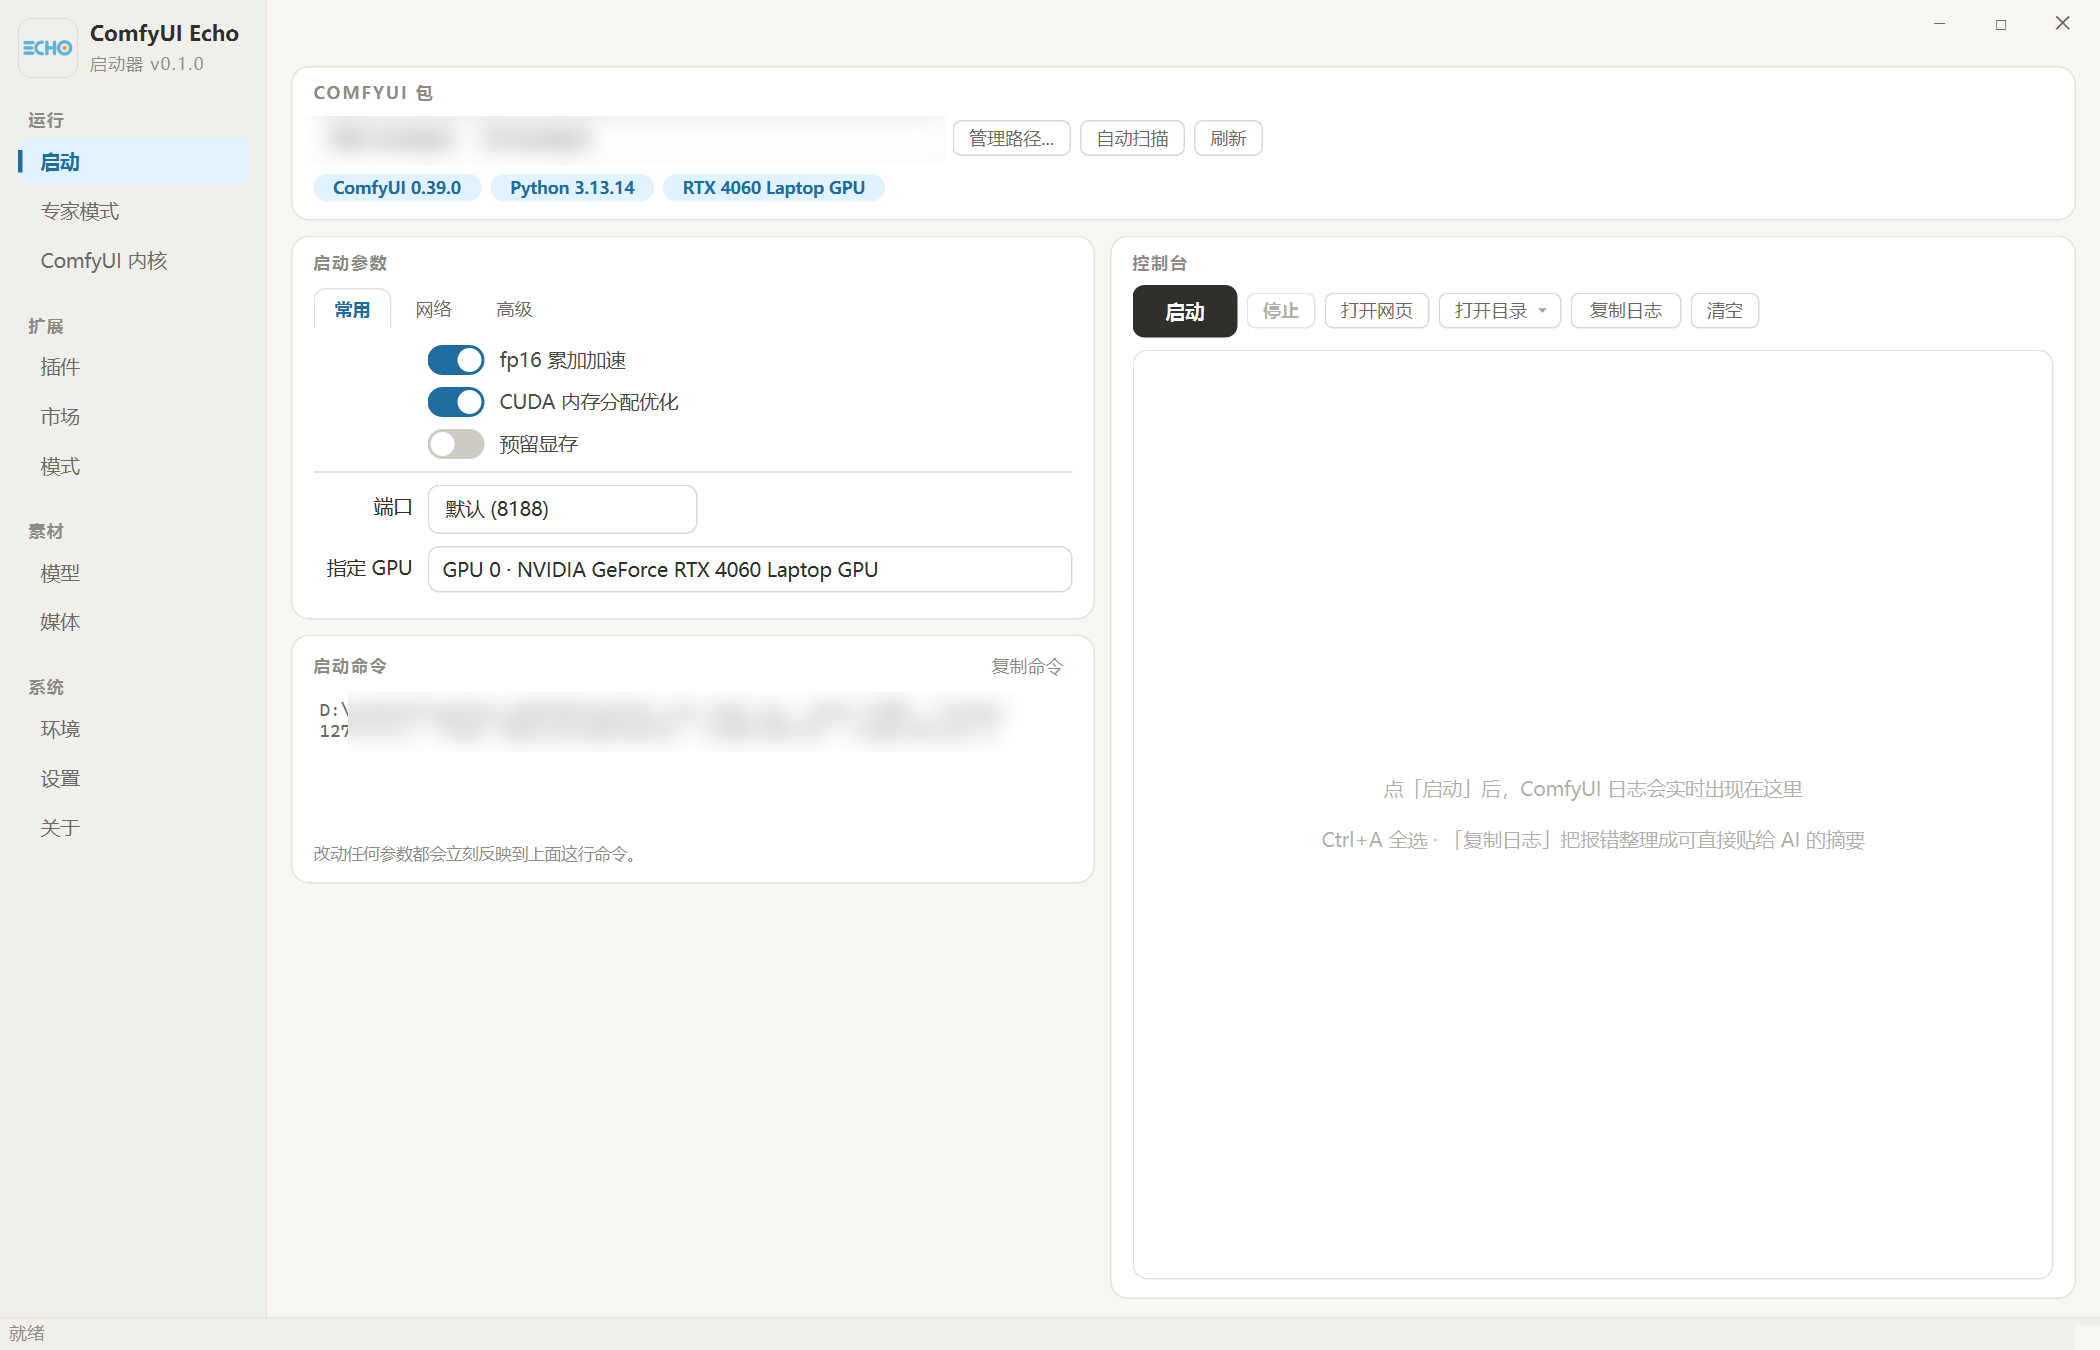
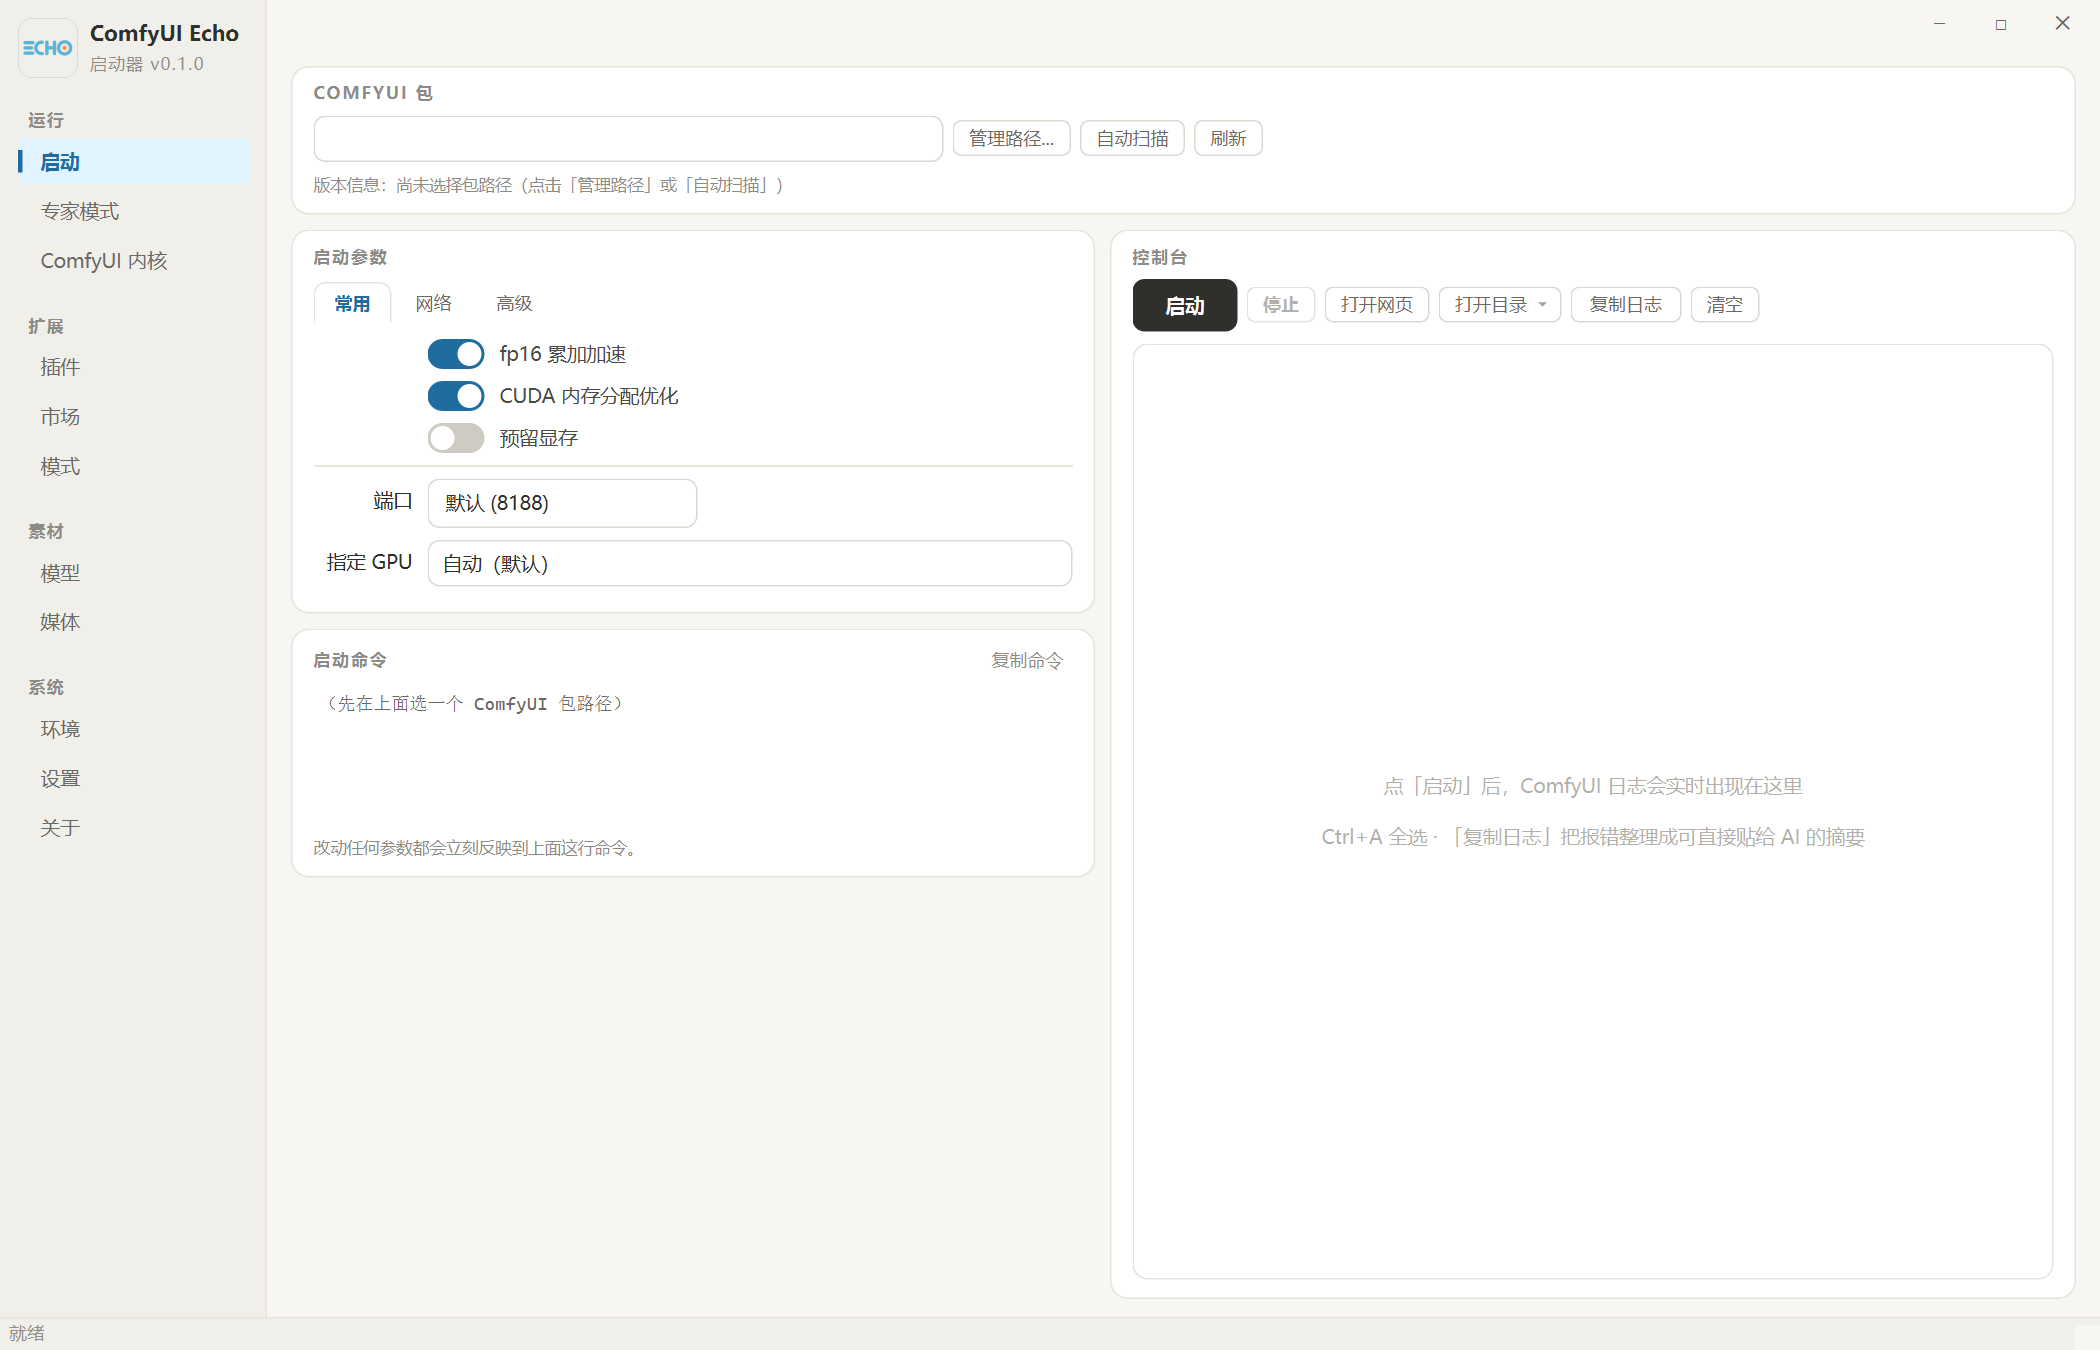
docs: 截图改为纯默认状态（不含任何本机配置）；README 图片与文案同步

diff --git a/README.md b/README.md
@@ -37,7 +37,7 @@
 
 <div align="center">
   <img src="docs/screenshots/home.png" width="900" alt="启动页">
-  <br><em>启动 —— 多包路径 · 启动参数 · 注意力四档 · 实时控制台</em>
+  <br><em>启动 —— 多包路径 · 启动参数 · 实时控制台</em>
 </div>
 
 ## 主要功能
@@ -59,18 +59,18 @@
 <br>
 
 <div align="center">
-  <img src="docs/screenshots/modes.png" width="900" alt="模式页">
-  <br><em>模式 —— 工作流 / 插件 / 当前模式一屏三栏，选工作流即知缺哪些插件</em>
-</div>
-
-<div align="center">
-  <img src="docs/screenshots/market.png" width="900" alt="市场页">
-  <br><em>市场 —— ComfyUI-Manager 公开目录，边打边过滤、按节点名反查</em>
+  <img src="docs/screenshots/expert.png" width="900" alt="专家模式页">
+  <br><em>专家模式 —— 精度 / 显存 / 日志 / 注意力接管，逐项对应命令行开关</em>
 </div>
 
 <div align="center">
   <img src="docs/screenshots/settings.png" width="900" alt="设置页">
   <br><em>设置 —— 自更新 / 网络 / 界面与系统偏好，改动即时保存</em>
+</div>
+
+<div align="center">
+  <img src="docs/screenshots/about.png" width="900" alt="关于页">
+  <br><em>关于 —— 软件介绍与版本更新</em>
 </div>
 
 ## 下载
